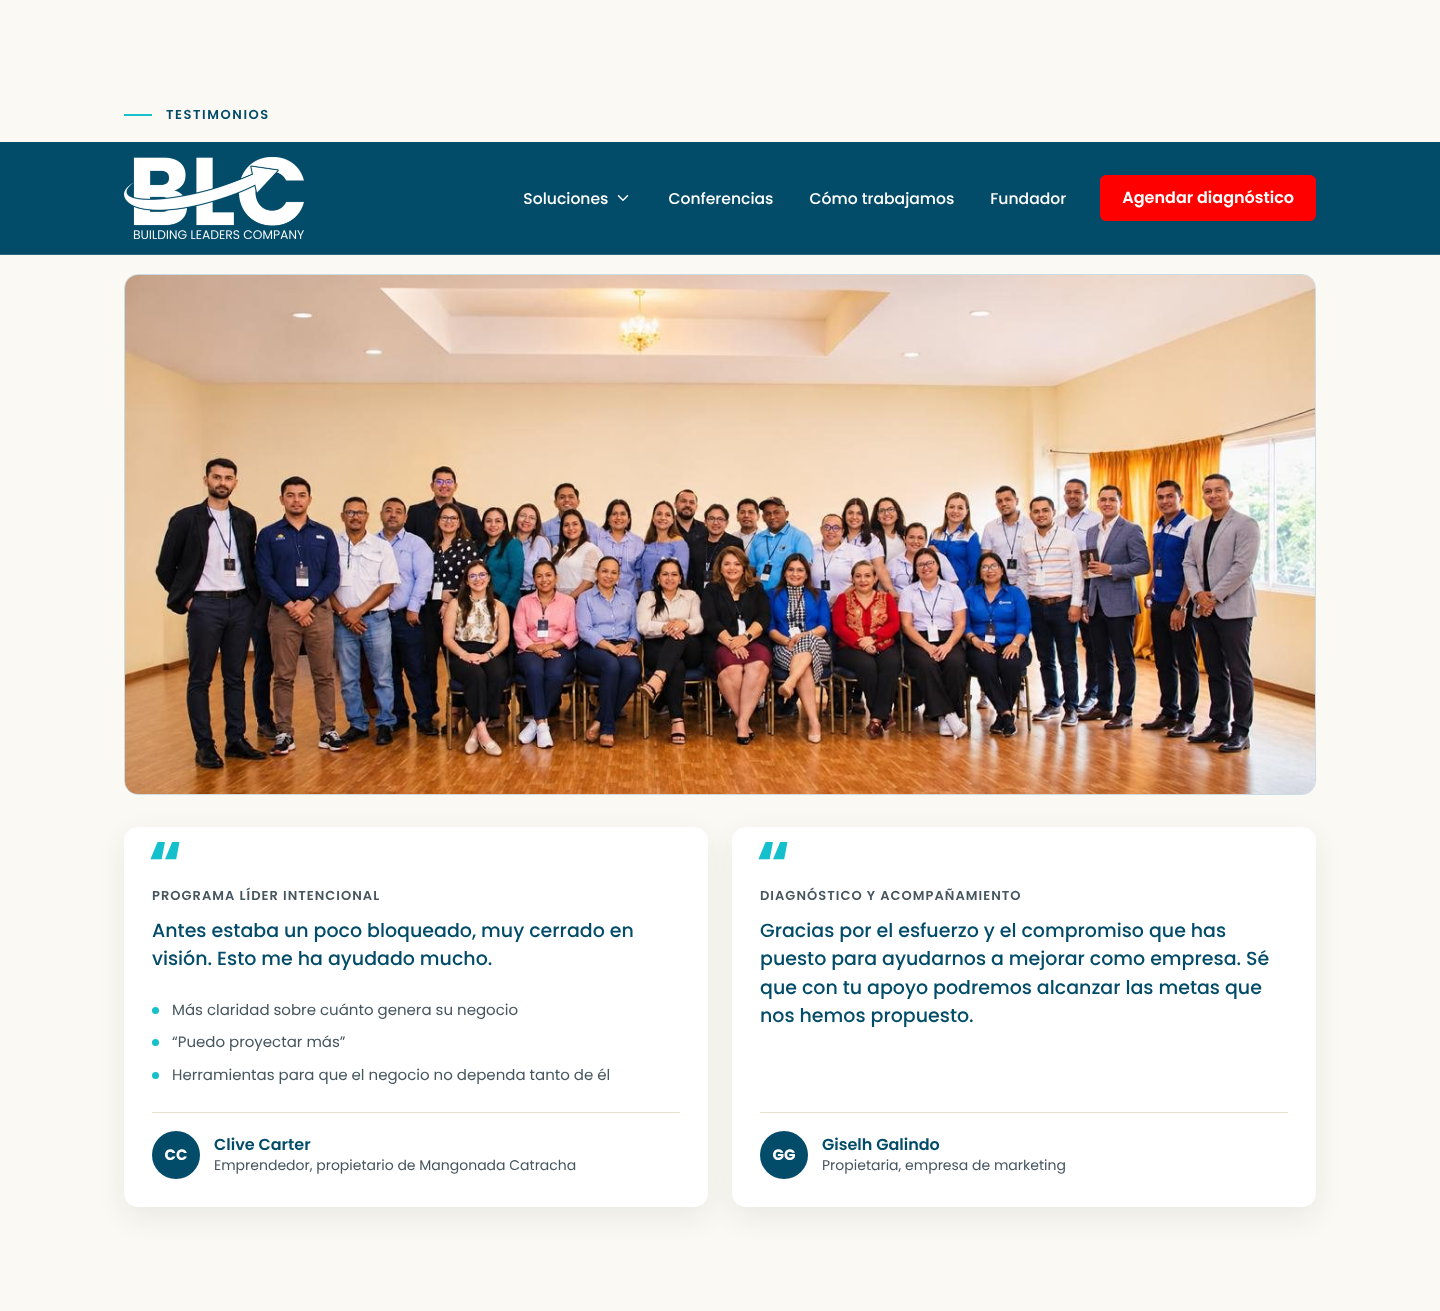
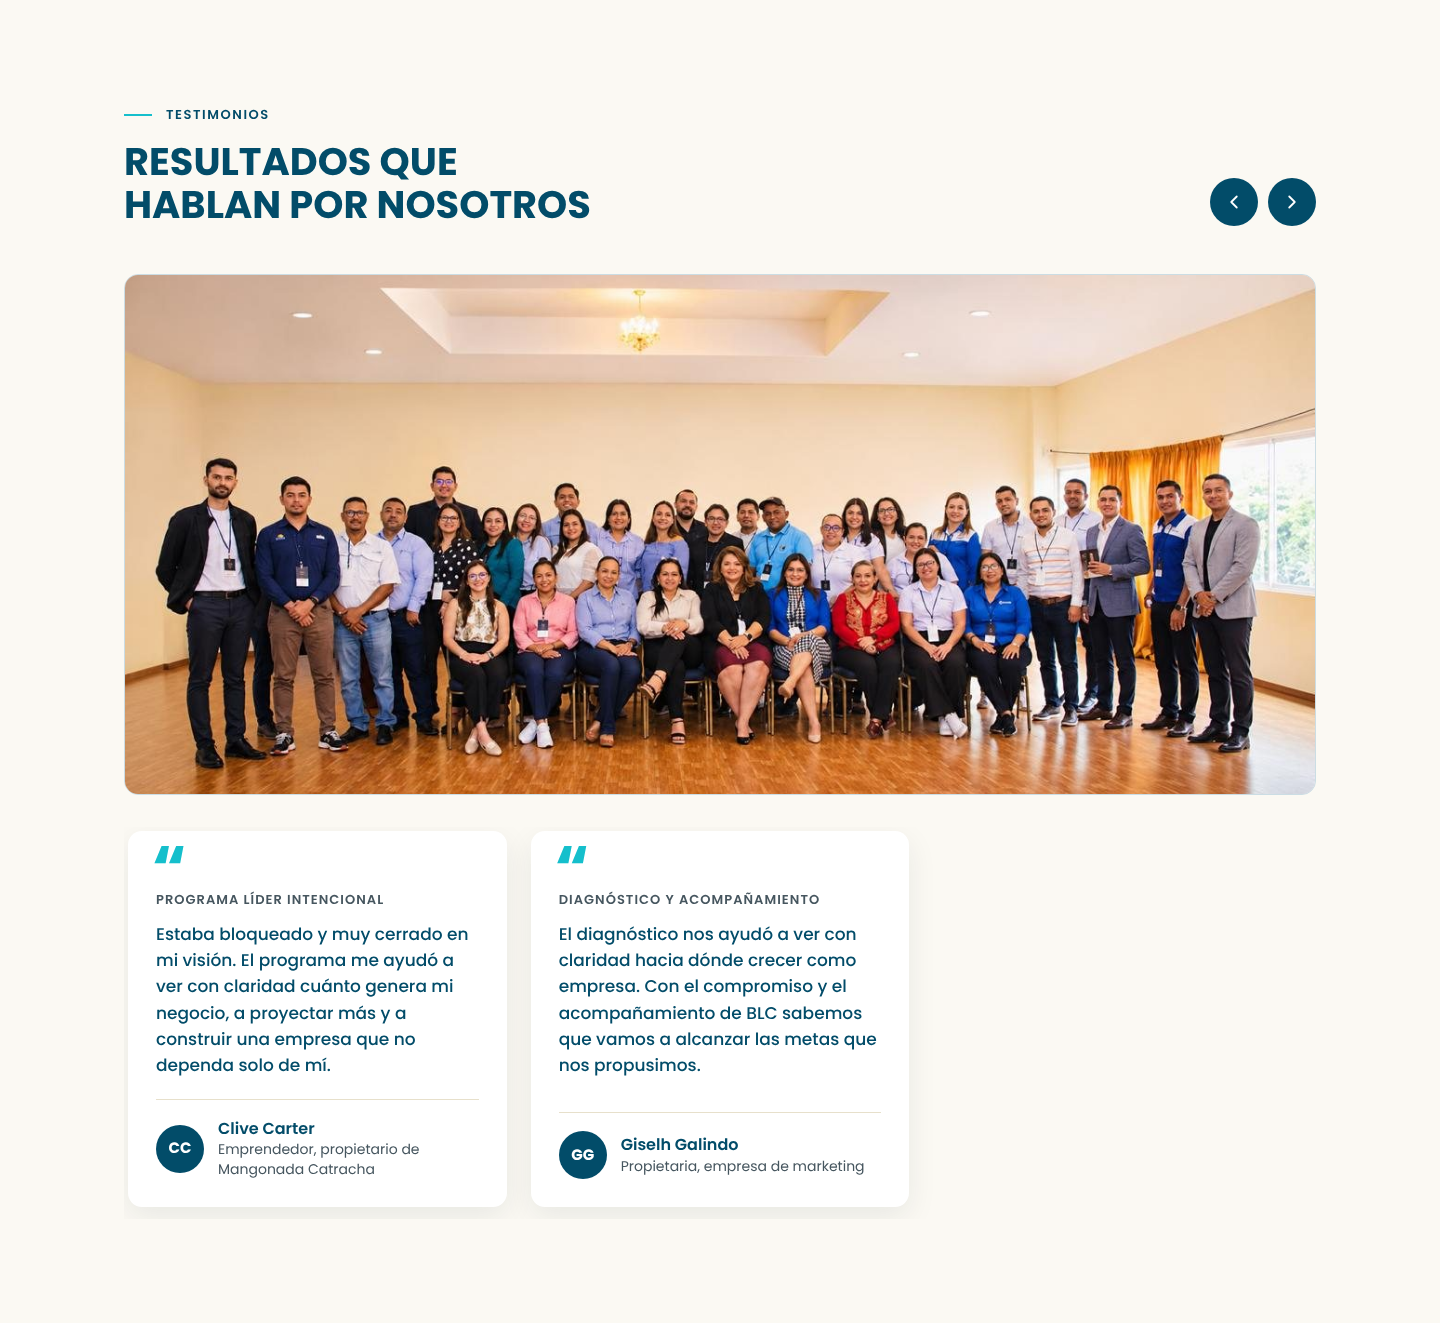
Testimonios redactados para leerse mejor y en carrusel
Claude-Session: https://claude.ai/code/session_01WCj9xs9Gz3GYaHb4eT4hNZ

diff --git a/src/index.html b/src/index.html
@@ -312,25 +312,25 @@
             <p class="kicker">Testimonios</p>
             <h2>Resultados que hablan por nosotros</h2>
           </div>
+          <div class="carousel-nav">
+            <button type="button" class="round-btn" data-carousel-prev aria-label="Testimonio anterior"><svg viewBox="0 0 24 24" aria-hidden="true"><path d="m15 6-6 6 6 6"/></svg></button>
+            <button type="button" class="round-btn" data-carousel-next aria-label="Testimonio siguiente"><svg viewBox="0 0 24 24" aria-hidden="true"><path d="m9 6 6 6-6 6"/></svg></button>
+          </div>
         </div>
         <figure class="photo-slot photo-slot--banner photo-slot--group">
           <img src="/assets/fotos/equipo-graduacion.jpg" alt="Participantes de un programa de BLC en la foto de cierre" width="1280" height="675" loading="lazy" onerror="this.remove()">
           <span>Foto grupal de un programa<br><small>assets/fotos/equipo-graduacion.jpg</small></span>
         </figure>
-        <ul class="quotes-grid" aria-label="Testimonios">
+        <!-- Para agregar un testimonio: copiar un <li class="quote"> completo y cambiar etiqueta, texto, iniciales, nombre y cargo -->
+        <ul class="carousel" data-carousel tabindex="0" aria-label="Testimonios">
           <li class="quote">
             <p class="quote-tag">Programa Líder Intencional</p>
-            <blockquote><p>Antes estaba un poco bloqueado, muy cerrado en visión. Esto me ha ayudado mucho.</p></blockquote>
-            <ul class="quote-gains" aria-label="Lo que se lleva del proceso">
-              <li>Más claridad sobre cuánto genera su negocio</li>
-              <li>“Puedo proyectar más”</li>
-              <li>Herramientas para que el negocio no dependa tanto de él</li>
-            </ul>
+            <blockquote><p>Estaba bloqueado y muy cerrado en mi visión. El programa me ayudó a ver con claridad cuánto genera mi negocio, a proyectar más y a construir una empresa que no dependa solo de mí.</p></blockquote>
             <div class="quote-who"><span class="quote-avatar" aria-hidden="true">CC</span><p><strong>Clive Carter</strong><span>Emprendedor, propietario de Mangonada Catracha</span></p></div>
           </li>
           <li class="quote">
             <p class="quote-tag">Diagnóstico y acompañamiento</p>
-            <blockquote><p>Gracias por el esfuerzo y el compromiso que has puesto para ayudarnos a mejorar como empresa. Sé que con tu apoyo podremos alcanzar las metas que nos hemos propuesto.</p></blockquote>
+            <blockquote><p>El diagnóstico nos ayudó a ver con claridad hacia dónde crecer como empresa. Con el compromiso y el acompañamiento de BLC sabemos que vamos a alcanzar las metas que nos propusimos.</p></blockquote>
             <div class="quote-who"><span class="quote-avatar" aria-hidden="true">GG</span><p><strong>Giselh Galindo</strong><span>Propietaria, empresa de marketing</span></p></div>
           </li>
         </ul>

diff --git a/src/styles.css b/src/styles.css
@@ -498,3 +498,6 @@ a { color: var(--petroleo); text-underline-offset: .2em; }
 .quotes-grid .quote-who { margin-top: auto; }
 .quotes-grid .quote-avatar { display: grid; place-items: center; border: 0; background: var(--petroleo); color: var(--blanco); font-weight: 700; font-size: .9375rem; }
 @media (max-width: 900px) { .quotes-grid { grid-template-columns: 1fr; } }
+.carousel .quote blockquote { margin: 10px 0 20px; }
+.carousel .quote blockquote p { font-size: 1.0625rem; font-weight: 500; color: var(--petroleo); line-height: 1.55; }
+.carousel .quote-avatar { display: grid; place-items: center; border: 0; background: var(--petroleo); color: var(--blanco); font-weight: 700; font-size: .9375rem; }
